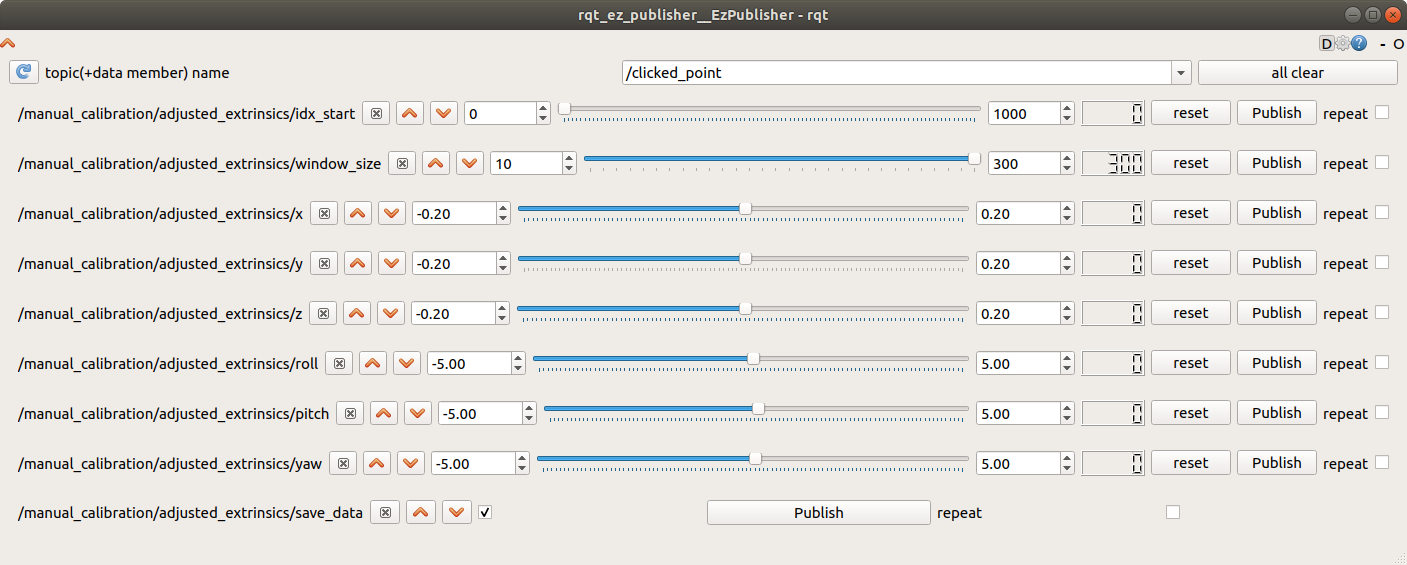
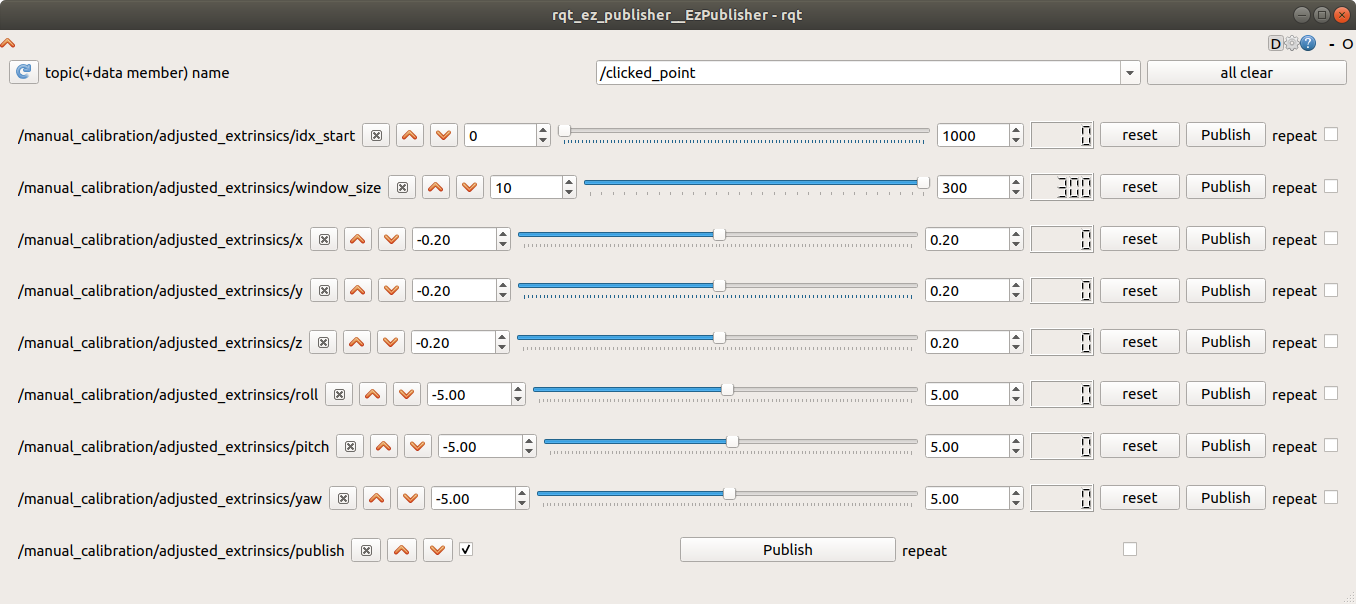
address PR comments

diff --git a/src/manual_calibration.cpp b/src/manual_calibration.cpp
@@ -43,7 +43,7 @@ DEFINE_validator(candidate_frame, &beam::gflags::ValidateCannotBeEmpty);
  * sensor_data
  * @param[in] sensor_frame sensor frame id
  */
-const beam_mapping::scan_data_type GetScanData(
+const beam_mapping::pose_and_scan_data_type GetPoseAndScanData(
     beam_mapping::sensor_data_type &sensor_data,
     const std::string &sensor_frame) {
   if (sensor_data.find(sensor_frame) != sensor_data.end()) {
@@ -59,15 +59,15 @@ class ManualCalibration {
   /**
    * @brief Explicit Constructor
    *
-   * @param[in] scan_data_reference scan data for reference sensor
-   * @param[in] scan_data_candidate scan data for candidate sensor
+   * @param[in] pose_and_scan_data_reference scan data for reference sensor
+   * @param[in] pose_and_scan_data_candidate scan data for candidate sensor
    */
   explicit ManualCalibration(
-      const beam_mapping::scan_data_type &scan_data_reference,
-      const beam_mapping::scan_data_type &scan_data_candidate)
-      : scan_data_reference_(scan_data_reference),
-        scan_data_candidate_(scan_data_candidate),
-        max_size_(scan_data_reference.first.size()) {
+      const beam_mapping::pose_and_scan_data_type &pose_and_scan_data_reference,
+      const beam_mapping::pose_and_scan_data_type &pose_and_scan_data_candidate)
+      : pose_and_scan_data_reference_(pose_and_scan_data_reference),
+        pose_and_scan_data_candidate_(pose_and_scan_data_candidate),
+        max_size_(pose_and_scan_data_reference.first.size()) {
     ros::Time::init();
   };
 
@@ -81,7 +81,7 @@ class ManualCalibration {
    * @param[out] cloud_msg combined point cloud for sensor over sliding window
    */
   sensor_msgs::PointCloud2 ProcessScans(
-      const beam_mapping::scan_data_type &scan_data,
+      const beam_mapping::pose_and_scan_data_type &scan_data,
       const Eigen::Matrix4d &T_SENSOR_ADJUSTEDSENSOR =
           Eigen::Matrix4d::Identity()) {
     // transform scans into world frame over window
@@ -115,7 +115,7 @@ class ManualCalibration {
           max_size_);
     }
 
-    if (manual_calibration_msg.save_data) {
+    if (manual_calibration_msg.publish) {
       // convert message fields to transformation matrix
       Eigen::Matrix4d T_SENSOR_ADJUSTEDSENSOR;
       Eigen::Quaterniond q;
@@ -137,15 +137,16 @@ class ManualCalibration {
         window_size_ = manual_calibration_msg.window_size;
         publish_reference_ = false;
         BEAM_INFO("Publishing reference cloud ... \r");
-        reference_cloud_pub_.publish(ProcessScans(scan_data_reference_));
+        reference_cloud_pub_.publish(
+            ProcessScans(pose_and_scan_data_reference_));
         BEAM_INFO("published");
       }
 
       // publish candidate cloud
       if (candidate_cloud_pub_.getNumSubscribers() > 0) {
         BEAM_INFO("Publishing candidate cloud ... \r");
-        candidate_cloud_pub_.publish(
-            ProcessScans(scan_data_candidate_, T_SENSOR_ADJUSTEDSENSOR));
+        candidate_cloud_pub_.publish(ProcessScans(pose_and_scan_data_candidate_,
+                                                  T_SENSOR_ADJUSTEDSENSOR));
         BEAM_INFO("published");
       }
     }
@@ -157,8 +158,8 @@ class ManualCalibration {
   size_t max_size_;
   bool publish_reference_{true};
   std::string map_frame_{"world"};
-  beam_mapping::scan_data_type scan_data_reference_;
-  beam_mapping::scan_data_type scan_data_candidate_;
+  beam_mapping::pose_and_scan_data_type pose_and_scan_data_reference_;
+  beam_mapping::pose_and_scan_data_type pose_and_scan_data_candidate_;
 
   // node properties
   ros::NodeHandle nh_ = ros::NodeHandle{"manual_calibration"};
@@ -181,10 +182,10 @@ int main(int argc, char *argv[]) {
 
   // get reference and candidate scan data
   beam_mapping::sensor_data_type sensor_data = map_builder.GetSensorData();
-  beam_mapping::scan_data_type scan_data_reference =
-      GetScanData(sensor_data, FLAGS_reference_frame);
-  beam_mapping::scan_data_type scan_data_candidate =
-      GetScanData(sensor_data, FLAGS_candidate_frame);
+  beam_mapping::pose_and_scan_data_type pose_and_scan_data_reference =
+      GetPoseAndScanData(sensor_data, FLAGS_reference_frame);
+  beam_mapping::pose_and_scan_data_type pose_and_scan_data_candidate =
+      GetPoseAndScanData(sensor_data, FLAGS_candidate_frame);
 
   // node handle
   BEAM_INFO(
@@ -192,8 +193,8 @@ int main(int argc, char *argv[]) {
       "sensor");
   try {
     ros::init(argc, argv, "manual_calibration");
-    ManualCalibration manual_calibration(scan_data_reference,
-                                         scan_data_candidate);
+    ManualCalibration manual_calibration(pose_and_scan_data_reference,
+                                         pose_and_scan_data_candidate);
     ros::Rate ros_rate(10);
     while (ros::ok()) {
       ros::spinOnce();

diff --git a/README.md b/README.md
@@ -164,7 +164,7 @@ and run the executable. For more information on how to run the executable, run:
 ./path_to_build_dir/manual_calibration.cpp --help
 ```
 
-This will bring up a custom rviz window, where `/manual_calibration/reference_cloud` and `/manual_calibration/candidate_cloud` topics are subscribed to and visualized. The `reference_cloud` and `candidate_cloud` topics have constructions of the user specified reference sensor and candiate sensor, respectively, published over a window of size `window_size` from a starting index `start_index`. These manually adjustable parameters are available in the rqt_ez_publisher window that opens upon launch, with  `x,y,z,roll,pitch,yaw` parameters available for manual extrinsic calibration. When checking off `save_data`, reference and candidate clouds are published as shown below.
+This will bring up a custom rviz window, where `/manual_calibration/reference_cloud` and `/manual_calibration/candidate_cloud` topics are subscribed to and visualized. The `reference_cloud` and `candidate_cloud` topics have constructions of the user specified reference sensor and candidate sensor, respectively, published over a window of size `window_size` from a starting index `start_index`. These manually adjustable parameters are available in the rqt_ez_publisher window that opens upon launch, with  `x,y,z,roll,pitch,yaw` parameters available for manual extrinsic calibration. When checking off `publish`, reference and candidate clouds are published as shown below. Note that for all topics shown in the rqt_ez_publisher window, `repeat` should remain unchecked.
 
 <img src="docs/ManualCalibrationRviz.png" width="800">
 
